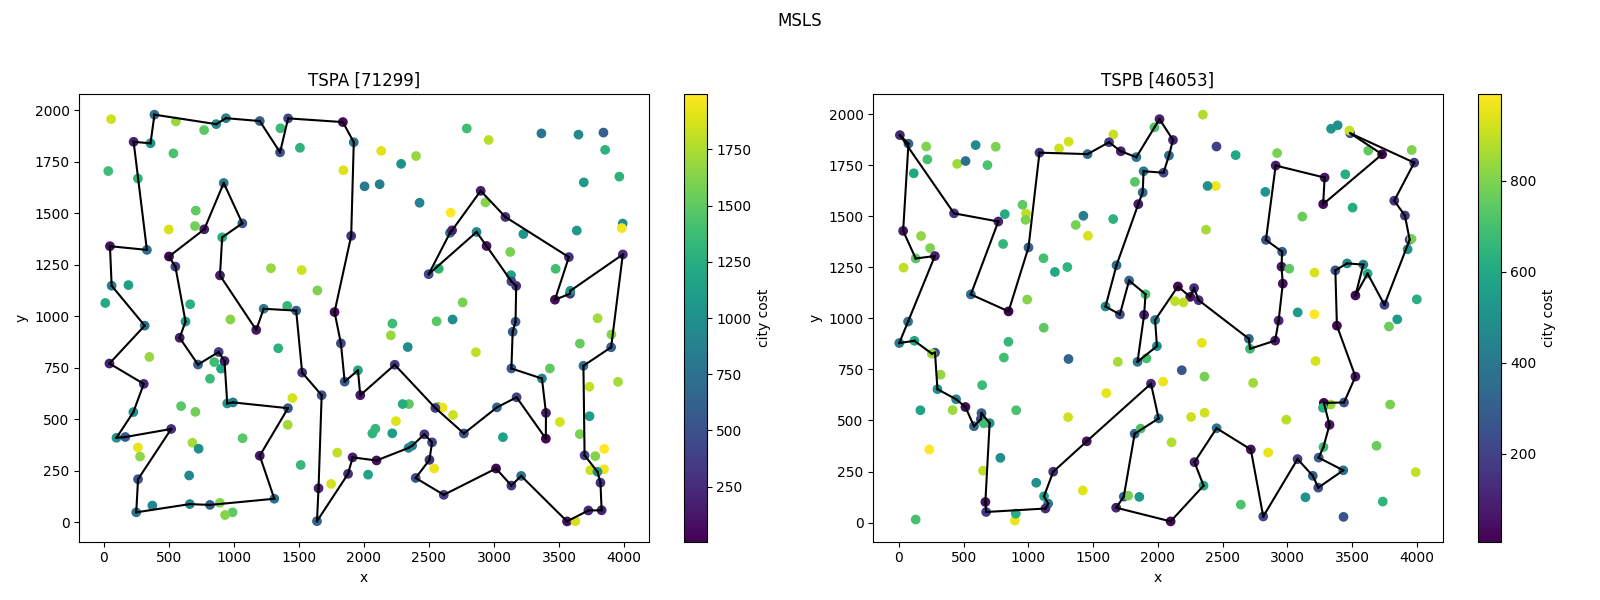
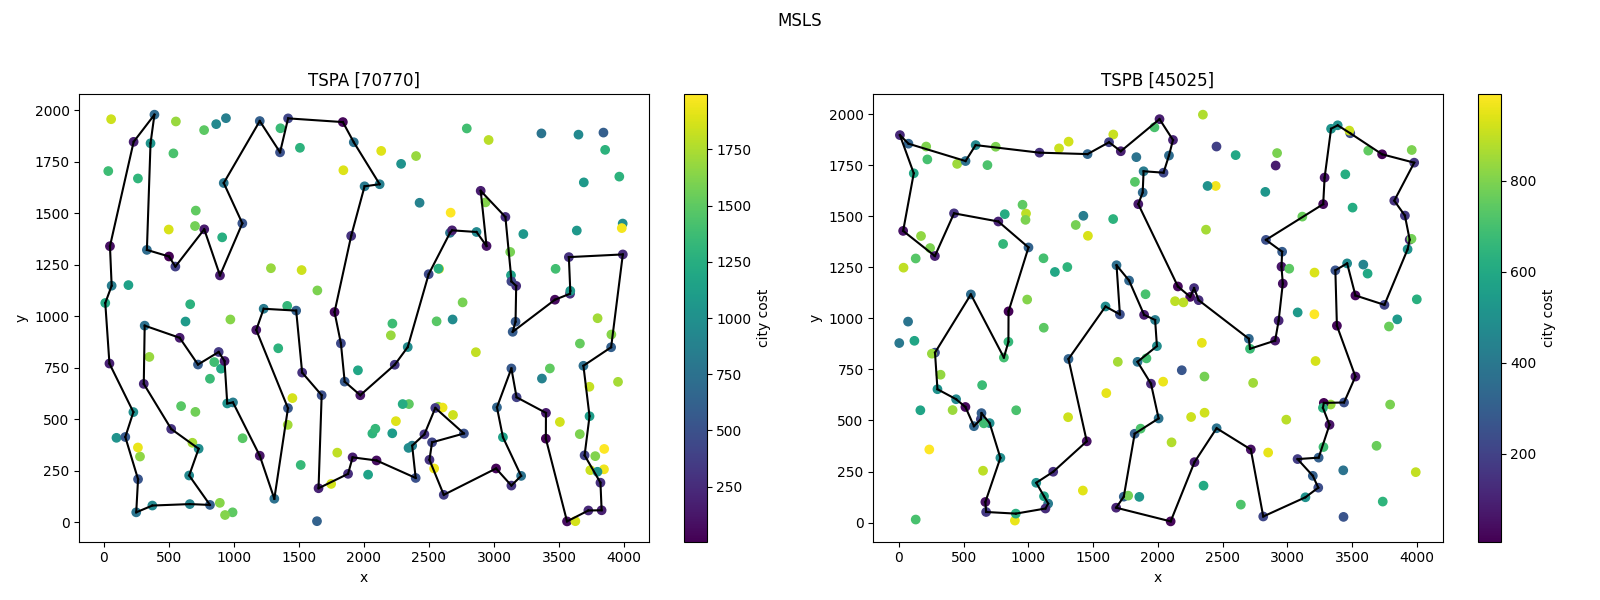
LNS v1

diff --git a/README.md b/README.md
@@ -34,57 +34,67 @@ This visual representation provides an intuitive way to interpret the spatial re
 
 ## [Combined TSPA and TSPB results table](#combined-tspa-and-tspb-results-table):
 
-Instance: tspa
 
-| **Method**             | **Min** | **Mean** | **Max** | **Time\* (s)** |
-| ---------------------- | ------- | -------- | ------- | -------------- |
-| `IteratedLocalSearch`  | 69353   | 70514    | 71980   | 78.2629        |
-| `MSLS`                 | 71299   | 72745    | 74026   | 71.1501        |
-| `GreedyAtAnyPosition`  | 71263   | 73096    | 76156   | 0.8800         |
-| `ListOfImprovingMoves` | 71564   | 73810    | 77544   | 3.8895         |
+### Instance: **tspa**
 
-**IteratedLocalSearch: ~226 iterations of LocalSearch**
+| **Method**                          | **Min**   | **Mean**  | **Max**   | **Avg time (s)**  |
+|-------------------------------------|-----------|-----------|-----------|-------------------|
+| `LargeNeighborhoodSearchWithLS`     | **69406** | **69703** | **70281** | **33.0160**       |
+| `LargeNeighborhoodSearchWithoutLS`  | **69230** | **69656** | **70398** | **33.0070**       |
+| `MSLS`                              | **70770** | **71193** | **71611** | **35.0760**       |
 
-Instance: tspb
+- **Large Neighborhood without LS**: ~1130 iterations of main loop  
+- **Large Neighborhood with LS**: ~2097 iterations of main loop  
 
-| **Method**             | **Min** | **Mean** | **Max** | **Time\* (s)** |
-| ---------------------- | ------- | -------- | ------- | -------------- |
-| `IteratedLocalSearch`  | 43869   | 45008    | 46892   | 78.1519        |
-| `MSLS`                 | 46053   | 47473    | 48854   | 68.7576        |
-| `GreedyAtAnyPosition`  | 44446   | 45916    | 51960   | 0.6027         |
-| `ListOfImprovingMoves` | 45404   | 48409    | 51581   | 3.6014         |
+---
 
-**IteratedLocalSearch: ~226 iterations of LocalSearch**
+### Instance: **tspb**
 
-**Time\* - to solve all 200 instances**
+| **Method**                          | **Min**  | **Mean**   | **Max**   | **Avg time\* (s)** |
+|-------------------------------------|----------|------------|-----------|--------------------|
+| `LargeNeighborhoodSearchWithLS`     | **43461** | **43990** | **44674** | **33.0130**        |
+| `LargeNeighborhoodSearchWithoutLS`  | **43579** | **44210** | **45756** | **33.0080**        |
+| `MSLS`                              | **45025** | **45728** | **46188** | **34.4420**        |
+
+- **Large Neighborhood without LS**: ~1171 iterations of main loop  
+- **Large Neighborhood with LS**: ~2158 iterations of main loop  
+
+--- 
 
 ## Solutions
 
 ```
-Perturbation(Triplet, Pair, city)
+function destroy(solution):
+    remove 25 cities radomly (uniform distribution) from the solution
 
-function generatePerturbation():
-    triplet <- random triplet from consecutive triplets from solution.path
-    pair <- random pair from consecutive pairs from solution.path
-    city <- random city from available cities
-    perturbation = Perturbation(triplet, pair, city)
+function repair(solution):
+    perform greedy at any position algorithm on the solution
 
-function applyPerturbation(solution, perturbation):
-    remove perturbation.triplet.city2 from the solution
-    add perturbation.city between the two cities from perturbation.pair
-    return perturbedSolution
+function local_search(solution) = SteepestLocalSearch with Node swaps
 
-function perturbSolution():
-    do:
-        perturbation <- generatePerturbation()
-        solution <- applyPerturbation(solution, perturbation)
-    twice
+function LargeNeighborhoodSearchWithLS(solution):
+    cur_solution = local_search(solution)
+    until 33 seconds have passed:
+        new_solution = destroy(solution)
+        new_solution = repair(new_solution)
+        new_solution = local_search(new_solution)
+        if new_solution.cost < cur_solution.cost:
+            cur_solution = new_solution
+    return cur_solution
+
+function LargeNeighborhoodSearchWithoutLS(solution):
+    cur_solution = local_search(solution)
+    until 33 seconds have passed:
+        new_solution = destroy(solution)
+        new_solution = repair(new_solution)
+        if new_solution.cost < cur_solution.cost:
+            cur_solution = new_solution
+    return cur_solution
 ```
 
-![ls-edges-swaps-greedy](plots/IteratedLocalSearch.png)
-![ls-candidate-moves-greedy](plots/MSLS.png)
-![ls-edges-swaps-steepest](plots/GreedyAtAnyPosition.png)
-![ls-candidate-moves-steepest](plots/ListOfImprovingMoves.png)
+![lns-with-ls](plots/LargeNeighborhoodSearchWithLS.png)
+![lns-without-ls](plots/LargeNeighborhoodSearchWithLS.png)
+![msls](plots/MSLS.png)
 
 ## [Conclusions](#conclusions)
 
